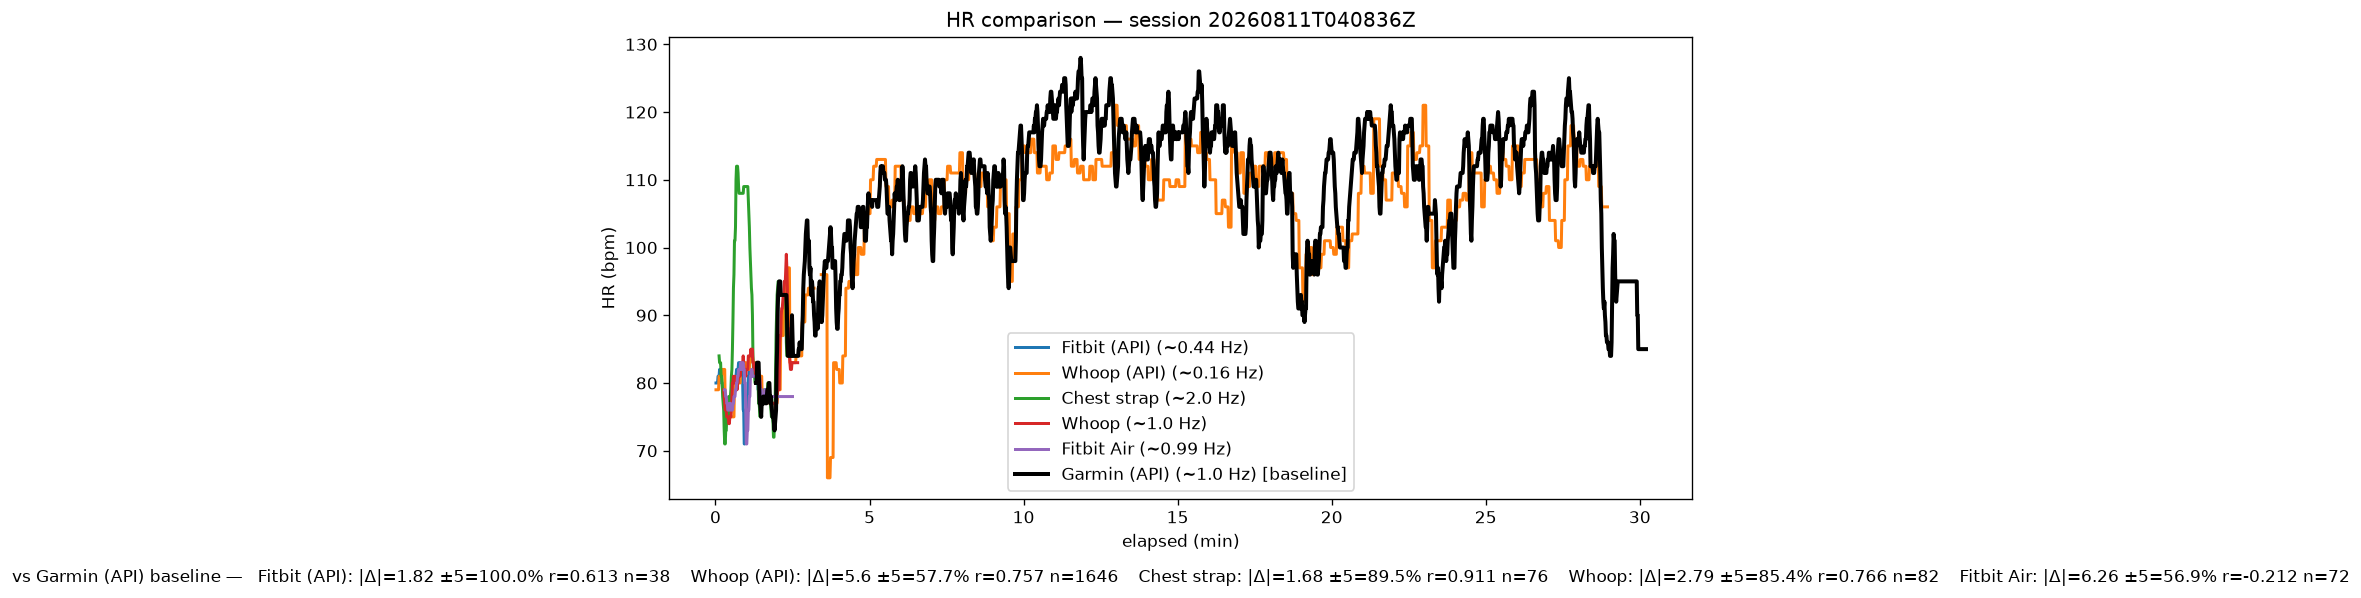
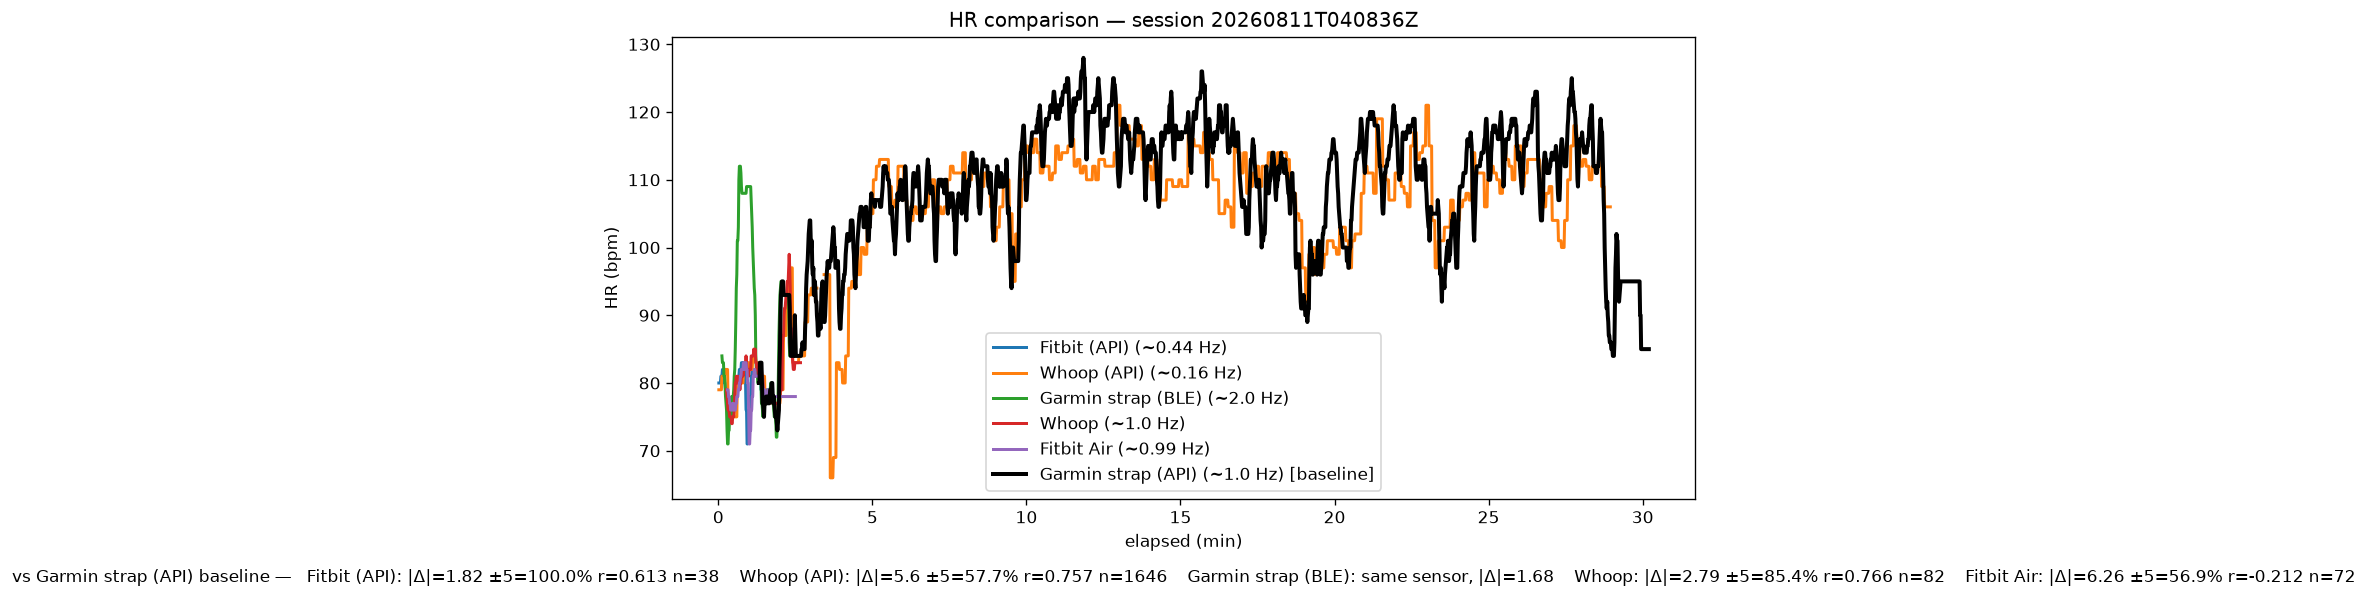
fix(compare): stop presenting strap vs garmin as a device comparison
STRAP_BLE_ADDRESS is the Garmin HRM, so the live BLE `strap` series and the
`garmin` series imported from Garmin Connect are the same physical sensor
arriving by two transports. Their agreement checks this repo's parsing and
time-alignment; it is not a cross-device accuracy result, and listing it beside
the real comparisons double-counts one sensor.

- SAME_SENSOR_PAIRS + is_same_sensor() encode the relationship in one place.
- hr-compare labels that pair "SAME SENSOR (transport check)" in both the
  terminal output and the chart subtitle, instead of printing r/±5% as if it
  were agreement between two devices.
- Relabel to make it visible at a glance: "Garmin strap (BLE)" / "Garmin strap
  (API)" rather than "Chest strap" / "Garmin (API)".

The genuinely independent comparisons are Whoop and Fitbit against the Garmin
strap; those numbers are unchanged.

diff --git a/src/wearable_pipeline/capture/compare.py b/src/wearable_pipeline/capture/compare.py
@@ -4,6 +4,20 @@ import statistics
 from typing import Any
 
 
+# `strap` (live BLE stream) and `garmin` (Garmin Connect import) are the SAME
+# physical chest strap reaching us by two different transports — in this setup
+# STRAP_BLE_ADDRESS is the Garmin HRM. Their agreement is a check on the import
+# pipeline's parsing and time-alignment, NOT a cross-device accuracy comparison.
+# Presenting it as one double-counts a single sensor. (If STRAP_BLE_ADDRESS ever
+# points at a non-Garmin strap, drop this pairing.)
+SAME_SENSOR_PAIRS: tuple[frozenset[str], ...] = (frozenset({"strap", "garmin"}),)
+
+
+def is_same_sensor(a: str, b: str) -> bool:
+    """True if two device keys are one physical sensor via different transports."""
+    return frozenset({a, b}) in SAME_SENSOR_PAIRS
+
+
 def series_rates(samples: list[dict]) -> dict:
     """Per-device sampling density: {device: {n, effective_hz, median_gap_s}}."""
     rates: dict[str, dict] = {}
@@ -152,16 +166,17 @@ def render_chart(session_id: str, aligned: Any, stats: dict, out_path) -> None:
     import matplotlib.pyplot as plt
 
     label_map = {
-        "strap": "Chest strap",
+        # Labelled to make the shared sensor obvious: `strap` and `garmin` are
+        # one chest strap by two transports (see SAME_SENSOR_PAIRS).
+        "strap": "Garmin strap (BLE)",
         "whoop": "Whoop",
         "google_health": "Fitbit Air",
         # Retrospective pull from Whoop's internal API (`hr-import-whoop`),
         # distinct from the live BLE `whoop` series.
         "whoop_api": "Whoop (API)",
-        # Garmin Connect activity samples (`hr-import-garmin`). Often the same
-        # physical chest strap as `strap`, but uploaded rather than streamed —
-        # so it covers stretches where BLE couldn't reach.
-        "garmin": "Garmin (API)",
+        # Garmin Connect activity samples (`hr-import-garmin`) — the strap's own
+        # recording, which covers stretches BLE couldn't reach.
+        "garmin": "Garmin strap (API)",
         # Fitbit intraday pull (`hr-import-fitbit`), as opposed to the live BLE
         # `google_health` series which only streams while the phone toggle is on.
         "fitbit_api": "Fitbit (API)",
@@ -197,8 +212,13 @@ def render_chart(session_id: str, aligned: Any, stats: dict, out_path) -> None:
     if stats.get("pairs"):
         base_name = label_map.get(baseline, baseline)
         segs = [
-            f"{label_map.get(device, device)}: |Δ|={p.get('mean_abs_diff')} "
-            f"±5={p.get('pct_within_5')}% r={p.get('pearson_r')} n={p['n_overlap']}"
+            (
+                f"{label_map.get(device, device)}: same sensor, |Δ|={p.get('mean_abs_diff')}"
+                if is_same_sensor(device, baseline)
+                else
+                f"{label_map.get(device, device)}: |Δ|={p.get('mean_abs_diff')} "
+                f"±5={p.get('pct_within_5')}% r={p.get('pearson_r')} n={p['n_overlap']}"
+            )
             for device, p in stats["pairs"].items()
         ]
         subtitle = f"vs {base_name} baseline —   " + "    ".join(segs)

diff --git a/src/wearable_pipeline/cli.py b/src/wearable_pipeline/cli.py
@@ -324,8 +324,20 @@ def hr_compare(
         raise typer.Exit(code=2)
 
     if stats.get("pairs"):
+        from .capture.compare import is_same_sensor
+
         typer.echo(f"  baseline: {stats['baseline']}")
         for device, p in stats["pairs"].items():
+            # Same sensor by another transport is a pipeline check, not a
+            # device comparison — say so instead of listing it as agreement.
+            if is_same_sensor(device, stats["baseline"]):
+                typer.echo(
+                    f"  {device} vs {stats['baseline']}: SAME SENSOR "
+                    f"(transport check, not a device comparison) "
+                    f"mean_abs_diff={p.get('mean_abs_diff')} "
+                    f"n_overlap={p['n_overlap']}"
+                )
+                continue
             typer.echo(
                 f"  {device} vs {stats['baseline']}: "
                 f"mean_abs_diff={p.get('mean_abs_diff')} "

diff --git a/CLAUDE.md b/CLAUDE.md
@@ -86,6 +86,8 @@ These APIs are new or recently changed; do not trust training-data memory for th
 
 ### Cross-device comparison rule
 
+**`strap` and `garmin` are ONE sensor, not two devices.** `STRAP_BLE_ADDRESS` is the Garmin HRM chest strap, so the live BLE `strap` series and the `garmin` series imported from Garmin Connect are the same physical sensor arriving by two transports. Their agreement checks the import pipeline's parsing and time-alignment — it is **not** a cross-device accuracy result, and counting both as independent devices double-counts one sensor. `capture/compare.py:SAME_SENSOR_PAIRS` encodes this and `hr-compare` labels the pair as a transport check. The genuinely independent comparisons are Whoop and Fitbit against the Garmin strap.
+
 **Never average `*_score` fields across devices.** Each device's 0–100 score uses a proprietary scale and algorithm — averaging them is meaningless. The intended comparison is **Spearman rank correlation** on per-device score series (planned for Phase 6's analysis script). When in doubt, prefer raw physiological values (HRV, RHR, total sleep minutes) over device scores for any comparison.
 
 ## Daily automation
